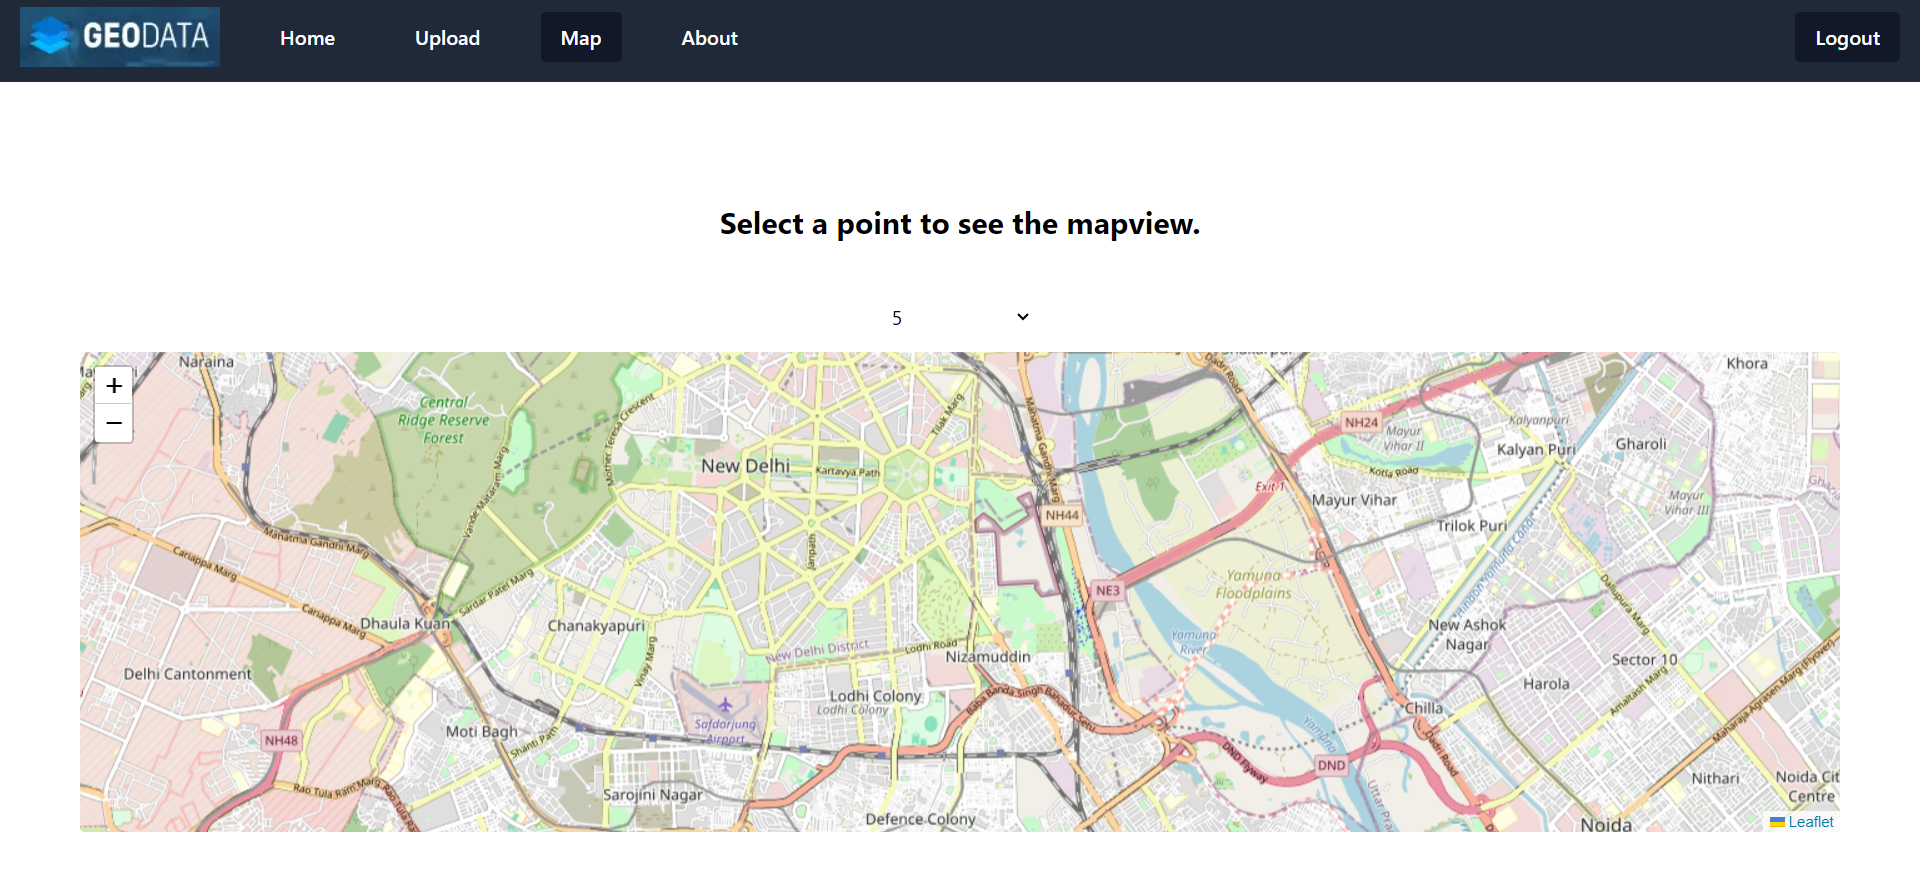
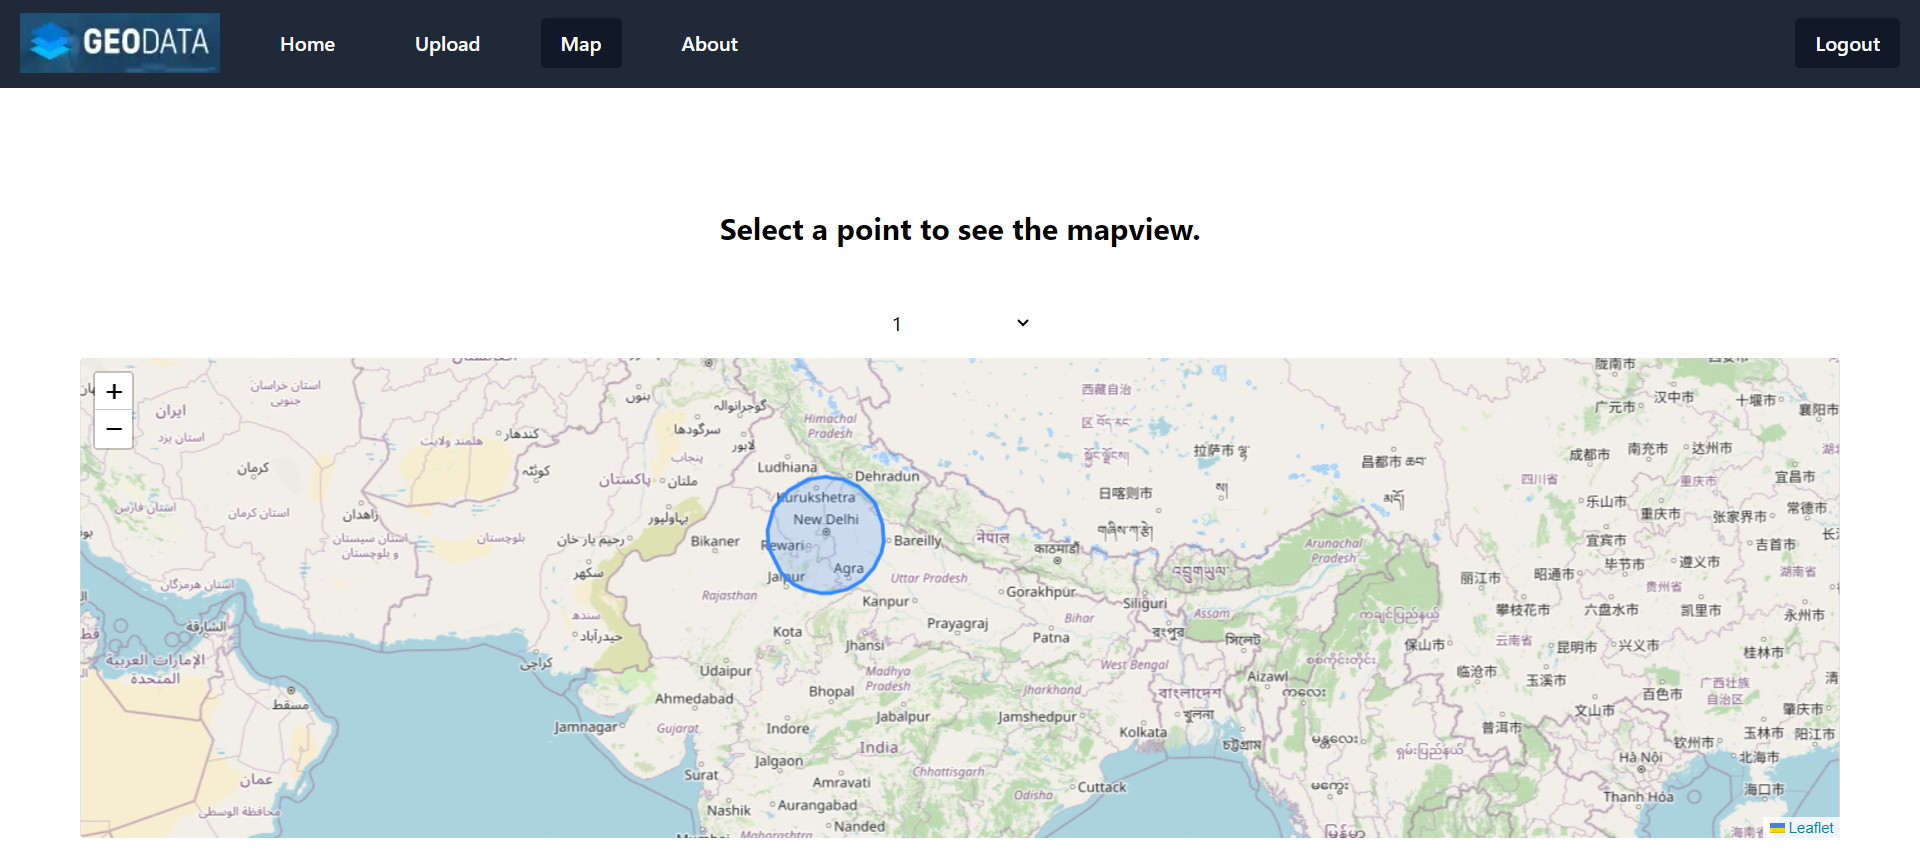
geoData

diff --git a/frontend/src/Pages/Map.jsx b/frontend/src/Pages/Map.jsx
@@ -10,17 +10,16 @@ const Map = () => {
   const [selectedData, setSelectedData] = useState(null);
 
   const reverseCoordinates = (arr) => {
-    if (arr && arr.length >= 2) { 
-      return [arr[1], arr[0]];
-    } else {
-      return null;
-    }
+    return [arr[1], arr[0]];
   };
 
   useEffect(() => {
     const selectedCoordinates = myData[selectedData];
-    if (selectedCoordinates && Array.isArray(selectedCoordinates)) { 
+    console.log(myData);
+    if (selectedCoordinates) { 
+
       const first = reverseCoordinates(selectedCoordinates[0]);
+      console.log(first);
       const map = selectedCoordinates.map((e) => {
         return { location: reverseCoordinates(e) };
       });
@@ -34,6 +33,7 @@ const Map = () => {
     const fetchCoordinates = async () => {
       try {
         const response = await axios.get('http://localhost:8080/geodata/list');
+        console.log(response.data);
         const userid = localStorage.getItem("userId");
         const data = response.data
           .filter((e) => e.user_id === userid)
@@ -54,13 +54,13 @@ const Map = () => {
       <select onChange={(e) => setSelectedData(e.target.value)}>
         <option value="">Select a point</option>
         {myData.map((el, i) => (
-          <option key={i} value={el[i]}>{i + 1}</option>
+          <option key={i} value={i}>{i + 1}</option>
         ))}
       </select>
 
       <div className="w-11/12 h-96 mx-auto my-4">
-        { (
-          <MapContainer center={[50,50]} zoom={7} className="h-full w-full rounded">
+               { initialCoordinates &&  (
+          <MapContainer center={initialCoordinates} zoom={7} className="h-full w-full rounded">
             <TileLayer url="http://{s}.tile.openstreetmap.org/{z}/{x}/{y}.png" />
             {mapPoints.length > 0 && (
               <Polygon positions={mapPoints} />

diff --git a/Readme.md b/Readme.md
@@ -40,7 +40,6 @@ To get started with the application, follow these steps:
 1. Clone the repository: `git clone <repository-url>`
 2. Navigate to the backend directory: `cd backend`
 3. Set up the backend environment and database: 
-    `go get .`
     `go run main.go`
 4. Navigate to the frontend directory: `cd frontend`
 5. Install dependencies: `npm install`
